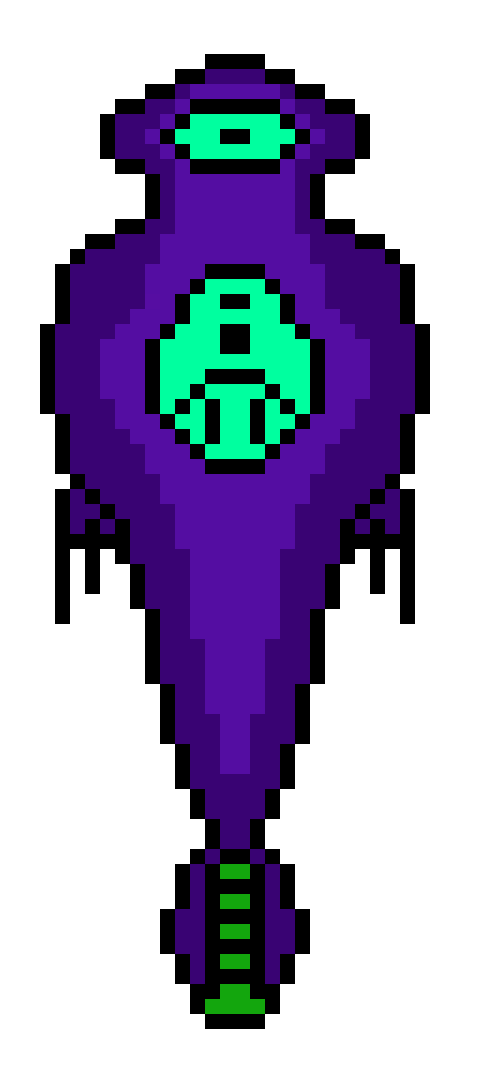
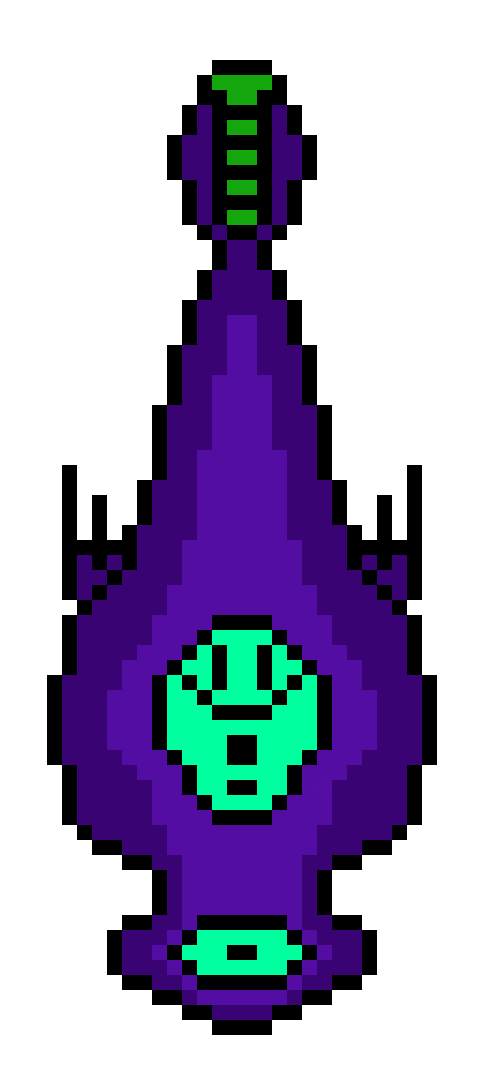
Making more details on shoots and Battle Cruiser Boss walk and shoot

diff --git a/FrontEnd/Script/Models/Bosses/scriptBattleCruiser.js b/FrontEnd/Script/Models/Bosses/scriptBattleCruiser.js
@@ -1,16 +1,159 @@
 import Boss from "./scriptBoss.js";
 import { PATH_BATTLE_CRUISER_IMAGE } from "../../Gameplay/scriptConstants.js";
+import FrontBullet from "../Bullets/scriptFrontBullet.js";
 
 class BattleCruiser extends Boss {
 
-    constructor(life, score, cash) {
-        
-        super(1, 1, 407, 1089, 0, life, cash, score, "Battle Cruiser");
+    minDistance = 400;
+    maxDistance = 700;
+    lastShotTime = 0;     
+    shootCooldown = 1000;
 
-        this.image = PATH_BATTLE_CRUISER_IMAGE
+    movePoints = [];              
+    isMoving = false;
+    framesAtPoint = 0;
+    moveDuration = 120;
+    moveFrame = 0;
+    currentPointIndex = 0;
+    targetPointIndex = 1;
+
+    constructor(life, score, cash, canvas) {
+        
+        super(0, 0, 477/2, 1089/2, 0, life, cash, score, "Battle Cruiser");
+
+        this.position.x = Math.max(100, this.width / 2 + 100);
+        this.position.y = Math.max(20, this.height / 2 - 80);
+
+        this.imagePath = PATH_BATTLE_CRUISER_IMAGE;
+        this.setMovementPoints(canvas);
+
+        this.isMoving = false;
+        this.framesAtPoint = 0;
+        // how many frames to stay at each point before moving
+        this.framesToStay = 120;
+        this.moveDuration = 120;
+        this.moveFrame = 0;
+        this.currentPointIndex = 0;
+        this.targetPointIndex = 1;
     }
 
-    
+    setMovementPoints(canvas) {
+
+        const marginX = Math.max(100, this.width / 2 + 100); // margem horizontal maior
+        const marginY = Math.max(20, this.height / 2 - 80); // margem vertical menor
+
+
+        this.movePoints = [
+            // top-left
+            { x: marginX, y: marginY },
+            // top-right
+            { x: canvas.width - marginX, y: marginY },
+            // bottom-right
+            { x: canvas.width - marginX, y: canvas.height - marginY },
+            // bottom-left
+            { x: marginX, y: canvas.height - marginY }
+        ];
+    }
+
+    update(player, bulletsArray, canvas) {
+        this.updateMovement(canvas);
+
+        let angleTargetX, angleTargetY;
+
+        if (this.isMoving) {
+            // 👉 Enquanto se move, olha para o destino do movimento
+            angleTargetX = this.endX + this.width / 2;
+            angleTargetY = this.endY + this.height / 2;
+        } else {
+            // 👉 Quando parado, olha para o jogador
+            angleTargetX = player.position.x + player.width / 2;
+            angleTargetY = player.position.y + player.height / 2;
+        }
+
+        // Calcular centro da nave
+        const cx_nave = this.position.x + this.width / 2;
+        const cy_nave = this.position.y + this.height / 2;
+
+        // Calcular ângulo até o alvo (jogador ou ponto de destino)
+        const dx = angleTargetX - cx_nave;
+        const dy = angleTargetY - cy_nave;
+        this.angle = Math.atan2(dy, dx) + Math.PI / 2;
+
+        // Controle de tiros
+        const now = Date.now();
+        if (now - this.lastShotTime >= this.shootCooldown) {
+            this.shoot(bulletsArray);
+            this.lastShotTime = now;
+        }
+    }
+
+    shoot(bulletsArray) {
+        const cx = this.position.x + this.width / 2;
+        const cy = this.position.y + this.height / 2;
+
+        const frontOffset = this.height / 2; // distância à frente da nave
+        const sideOffset = 20;               // distância lateral do canhão
+
+        const offsets = [+1, -1]; // direita e esquerda
+
+        for (const s of offsets) {
+            const bulletX = cx
+                + frontOffset * Math.cos(this.angle - Math.PI / 2)
+                + s * sideOffset * Math.cos(this.angle);
+            const bulletY = cy
+                + frontOffset * Math.sin(this.angle - Math.PI / 2)
+                + s * sideOffset * Math.sin(this.angle);
+
+                const frontBullet = new FrontBullet(bulletX, bulletY, this.angle, 10, "enemy");
+            frontBullet.setLength(40, 100); 
+            bulletsArray.push(frontBullet);
+        }
+    }
+
+    updateMovement(canvas) {
+
+        // If stationary, count frames until we should start moving
+        if (!this.isMoving) {
+            this.framesAtPoint++;
+
+            if (this.framesAtPoint >= this.framesToStay) {
+                this.isMoving = true;
+                this.framesAtPoint = 0;
+
+                // origin and destination (convert center points to top-left positions)
+                const origin = this.movePoints[this.currentPointIndex];
+                const destIndex = (this.currentPointIndex + 1) % this.movePoints.length;
+                const dest = this.movePoints[destIndex];
+
+                console.log(destIndex);
+
+                this.startX = origin.x - this.width / 2;
+                this.startY = origin.y - this.height / 2;
+                this.endX = dest.x - this.width / 2;
+                this.endY = dest.y - this.height / 2;
+
+                // reset frame counters for the interpolation
+                this.moveDuration = Math.max(1, this.moveDuration);
+                this.moveFrame = 0;
+                this.targetPointIndex = destIndex;
+            }
+            return;
+        }
+
+        // moving: advance frame and interpolate
+        this.moveFrame++;
+        const t = Math.min(1, this.moveFrame / this.moveDuration);
+        this.position.x = this.startX + (this.endX - this.startX) * t;
+        this.position.y = this.startY + (this.endY - this.startY) * t;
+        // finished movement
+        if (this.moveFrame >= this.moveDuration) {
+            this.position.x = this.endX;
+            this.position.y = this.endY;
+            this.currentPointIndex = this.targetPointIndex;
+            this.isMoving = false;
+            this.framesAtPoint = 0;
+        }
+    }
 }
 
 export default BattleCruiser;

diff --git a/FrontEnd/Script/Gameplay/scriptGameplay.js b/FrontEnd/Script/Gameplay/scriptGameplay.js
@@ -6,7 +6,8 @@ import * as PATHS from "./scriptConstants.js";
 import InputManager from "./scriptInputManager.js";
 import gameOver from "./scriptGameOver.js";
 import { values } from "./scriptDOM.js";
- 
+import BattleCruiser from "../Models/Bosses/scriptBattleCruiser.js"; 
+
 const canvas = document.getElementById("gameCanvas");
 const contex = canvas.getContext("2d");
 
@@ -20,9 +21,10 @@ const player = getSelectedSpaceship(canvas);
 let input = new InputManager();
 let enemies = [];
 let bullets = [];
+let battleCruiser = new BattleCruiser(20, 20, 20, canvas); 
 
 let collisionManager = new CollisionManager([]); 
-let spawner = new EnemySpawner(canvas, enemies, player);
+//let spawner = new EnemySpawner(canvas, enemies, player);
 
 // Auto-fire control
 let autoFireState = {
@@ -30,7 +32,8 @@ let autoFireState = {
     holdStart: 0,
     lastShot: 0,
     holdDelay: 300, // ms before continuous fire begins
-    autoFireInterval: 120 // ms between shots when holding
+    autoFireInterval: 240, // ms between shots when holding
+    nextAutoShot: 0 // timestamp for next auto shot
 };
 
 export const gameState = {
@@ -60,32 +63,32 @@ const gameLoop = () => {
             // immediate single shot on press
             player.shoot(bullets);
             autoFireState.holding = true;
-            autoFireState.holdStart = now;
-            autoFireState.lastShot = now;
+            // schedule first auto-shot after holdDelay
+            autoFireState.nextAutoShot = now + autoFireState.holdDelay;
         }
 
         if (input.keys.space) {
-            // if still holding and hold delay passed, fire at interval
-            if (autoFireState.holding) {
-                if (now - autoFireState.holdStart >= autoFireState.holdDelay) {
-                    if (now - autoFireState.lastShot >= autoFireState.autoFireInterval) {
-                        player.shoot(bullets);
-                        autoFireState.lastShot = now;
-                    }
+            if (autoFireState.holding && autoFireState.nextAutoShot) {
+                // when time reaches nextAutoShot, fire and schedule next
+                if (now >= autoFireState.nextAutoShot) {
+                    player.shoot(bullets);
+                    autoFireState.nextAutoShot = now + autoFireState.autoFireInterval;
                 }
-            } else {
-                // if space becomes held without edge (rare), initialize holding state
+            } else if (!autoFireState.holding) {
+                // space is held but we didn't see an edge; initialize schedule
                 autoFireState.holding = true;
-                autoFireState.holdStart = now;
-                autoFireState.lastShot = now;
+                autoFireState.nextAutoShot = now + autoFireState.holdDelay;
             }
         } else {
             // released
             autoFireState.holding = false;
+            autoFireState.nextAutoShot = 0;
         }
 
-        spawner.update();
-        
+        //spawner.update();
+        battleCruiser.update(player, bullets, canvas);
+        battleCruiser.draw(contex);
+
         bullets.forEach(b => {
             b.update();
             b.draw(contex);

diff --git a/FrontEnd/Script/Models/scriptGameObject.js b/FrontEnd/Script/Models/scriptGameObject.js
@@ -55,6 +55,17 @@ class GameObject {
             context.fillRect(-this.width / 2, -this.height / 2, this.width, this.height);
         }
 
+        context.beginPath();
+        context.ellipse(0, 0, this.width / 2, this.height / 2, 0, 0, 2 * Math.PI);
+        context.strokeStyle = "rgba(0,255,0,0.3)";
+        context.stroke();
+
+        context.beginPath();
+        context.moveTo(0, 0);
+        context.lineTo(0, -this.height / 2);
+        context.strokeStyle = "red";
+        context.stroke();
+
         context.restore();
     }
 
@@ -62,7 +73,8 @@ class GameObject {
         switch (this.type) {
             case "spaceship":
                 // Decrement life; takeLife returns true if life reached zero
-                const died = takeLife();
+                //const died = takeLife();
+                const died = false;
                 if (died) {
                     // Notify the app that the player died; listener (gameplay) will show game over UI
                     try {

diff --git a/FrontEnd/Script/Gameplay/scriptInputManager.js b/FrontEnd/Script/Gameplay/scriptInputManager.js
@@ -40,9 +40,12 @@ class InputManager {
             case "q": this.keys.rotateLeft = true; break;
             case "e": this.keys.rotateRight = true; break;
             case " ": 
-                // mark keyboard-held and mark as a pressed-once event
+                // mark keyboard-held; only set the "pressed once" marker when
+                // the key transitions from not-held to held to avoid browser key-repeat
+                if (!this._keyboardSpaceHeld) {
+                    this._keySpacePressed = true; // temporary marker consumed in update()
+                }
                 this._keyboardSpaceHeld = true;
-                this._keySpacePressed = true; // temporary marker consumed in update()
                 break;
         }
     }
